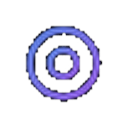
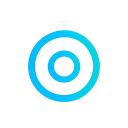
fix(proxy-monitor): refine Home Assistant styling

Changed region(s): [[0.1875, 0.1875, 0.8125, 0.8125], [0.3438, 0.3438, 0.6562, 0.6562]]

diff --git a/proxy-monitor/src/web/js/detail.js b/proxy-monitor/src/web/js/detail.js
@@ -332,7 +332,7 @@ function renderDetailChart(series) {
   const colorText = style.getPropertyValue('--text2').trim() || '#bdbdbd';
   const colorGrid = style.getPropertyValue('--border').trim() || 'rgba(255, 255, 255, 0.12)';
   const colorBg = style.getPropertyValue('--bg2').trim() || '#1c1c1c';
-  const colorAccent = style.getPropertyValue('--accent').trim() || '#03a9f4';
+  const colorChart = style.getPropertyValue('--chart').trim() || '#4269d0';
   const colorSuccess = style.getPropertyValue('--success').trim() || '#4caf50';
   const colorDanger = style.getPropertyValue('--danger').trim() || '#f44336';
 
@@ -359,8 +359,8 @@ function renderDetailChart(series) {
           label: 'Avg Latency (ms)',
           data: latencies,
           type: 'line',
-          borderColor: colorAccent,
-          backgroundColor: colorAccent + '1a', // 10% opacity
+          borderColor: colorChart,
+          backgroundColor: colorChart + '1a', // 10% opacity
           borderWidth: 2,
           pointRadius: 2,
           yAxisID: 'y2',
@@ -401,8 +401,8 @@ function renderDetailChart(series) {
         y2: {
           position: 'right',
           grid: { drawOnChartArea: false },
-          ticks: { color: colorAccent },
-          title: { display: true, text: 'Latency ms', color: colorAccent },
+          ticks: { color: colorChart },
+          title: { display: true, text: 'Latency ms', color: colorChart },
         },
       },
       plugins: {

diff --git a/proxy-monitor/src/web/js/ui.js b/proxy-monitor/src/web/js/ui.js
@@ -255,8 +255,8 @@ function buildSparklineSvg(tcp, udp) {
   <svg viewBox="0 0 ${W} ${H}" preserveAspectRatio="none">
     ${t ? `<polygon points="${t.fill}" fill="url(#sparkline-grad-tcp)"/>` : ''}
     ${u ? `<polygon points="${u.fill}" fill="url(#sparkline-grad-udp)"/>` : ''}
-    ${t ? `<polyline points="${t.pts}" fill="none" stroke="var(--accent)" stroke-width="1.5" stroke-linecap="round" stroke-linejoin="round"/>` : ''}
-    ${u ? `<polyline points="${u.pts}" fill="none" stroke="var(--accent2)" stroke-width="1.2" stroke-linecap="round" stroke-linejoin="round"/>` : ''}
+    ${t ? `<polyline points="${t.pts}" fill="none" stroke="var(--chart)" stroke-width="1.5" stroke-linecap="round" stroke-linejoin="round"/>` : ''}
+    ${u ? `<polyline points="${u.pts}" fill="none" stroke="var(--chart2)" stroke-width="1.2" stroke-linecap="round" stroke-linejoin="round"/>` : ''}
   </svg>`;
 }
 

diff --git a/proxy-monitor/src/web/index.html b/proxy-monitor/src/web/index.html
@@ -32,12 +32,12 @@
 
     <!-- Shared sparkline gradients (referenced by all card SVGs) -->
     <linearGradient id="sparkline-grad-tcp" x1="0" y1="0" x2="0" y2="1">
-      <stop offset="0%" stop-color="#03a9f4" stop-opacity="0.3"/>
-      <stop offset="100%" stop-color="#03a9f4" stop-opacity="0"/>
+      <stop offset="0%" stop-color="var(--chart)" stop-opacity="0.3"/>
+      <stop offset="100%" stop-color="var(--chart)" stop-opacity="0"/>
     </linearGradient>
     <linearGradient id="sparkline-grad-udp" x1="0" y1="0" x2="0" y2="1">
-      <stop offset="0%" stop-color="#00bcd4" stop-opacity="0.2"/>
-      <stop offset="100%" stop-color="#00bcd4" stop-opacity="0"/>
+      <stop offset="0%" stop-color="var(--chart2)" stop-opacity="0.2"/>
+      <stop offset="100%" stop-color="var(--chart2)" stop-opacity="0"/>
     </linearGradient>
 
     <!-- Icons -->

diff --git a/proxy-monitor/src/web/css/modals.css b/proxy-monitor/src/web/css/modals.css
@@ -46,6 +46,30 @@
   color: var(--danger);
 }
 
+/* In detail cards, latency severity is communicated by text color only. */
+.detail-info-block .dib-value.lat-good,
+.detail-info-block .dib-value.lat-mid,
+.detail-info-block .dib-value.lat-bad,
+.detail-info-block .dib-value.lat-none {
+  background: transparent;
+}
+
+.detail-info-block .dib-value.lat-good {
+  color: var(--success);
+}
+
+.detail-info-block .dib-value.lat-mid {
+  color: var(--warning);
+}
+
+.detail-info-block .dib-value.lat-bad {
+  color: var(--danger);
+}
+
+.detail-info-block .dib-value.lat-none {
+  color: var(--text3);
+}
+
 .chart-controls {
   display: flex;
   gap: 8px;

diff --git a/proxy-monitor/src/web/css/layout.css b/proxy-monitor/src/web/css/layout.css
@@ -7,7 +7,7 @@
   align-items: center;
   gap: 16px;
   padding: 12px 24px;
-  background: rgba(var(--bg-rgb), 0.97);
+  background: var(--bg2);
   border-bottom: 1px solid var(--border);
 }
 
@@ -146,9 +146,8 @@
 
 /* ─── Main layout ─────────────────────────────────────────────────── */
 .container {
-  max-width: 1600px;
-  margin: 0 auto;
-  padding: 24px;
+  width: 100%;
+  padding: 16px;
 }
 
 

diff --git a/proxy-monitor/src/web/css/vars.css b/proxy-monitor/src/web/css/vars.css
@@ -63,6 +63,10 @@
   --accent-rgb: 3, 169, 244;
   --accent2: #00bcd4;
   --accent2-rgb: 0, 188, 212;
+  --chart: #4269d0;
+  --chart-rgb: 66, 105, 208;
+  --chart2: #5b7fe5;
+  --chart2-rgb: 91, 127, 229;
   --success: #4caf50;
   --success-rgb: 76, 175, 80;
   --danger: #f44336;
